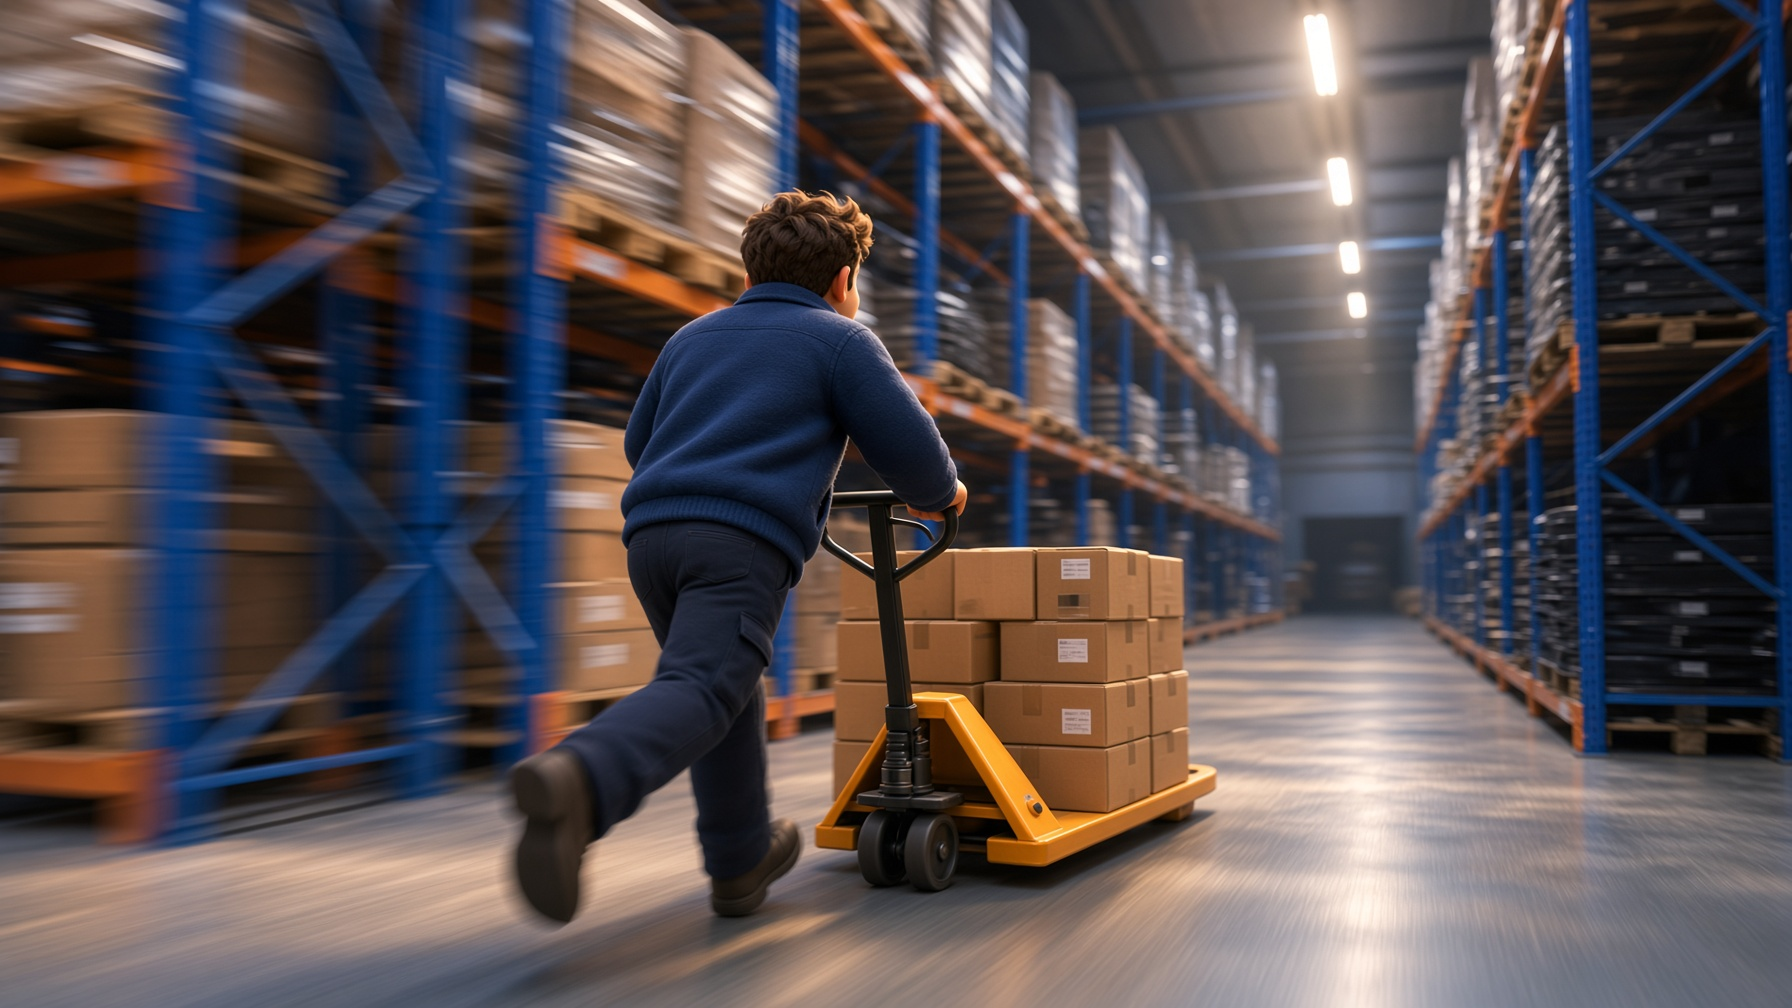
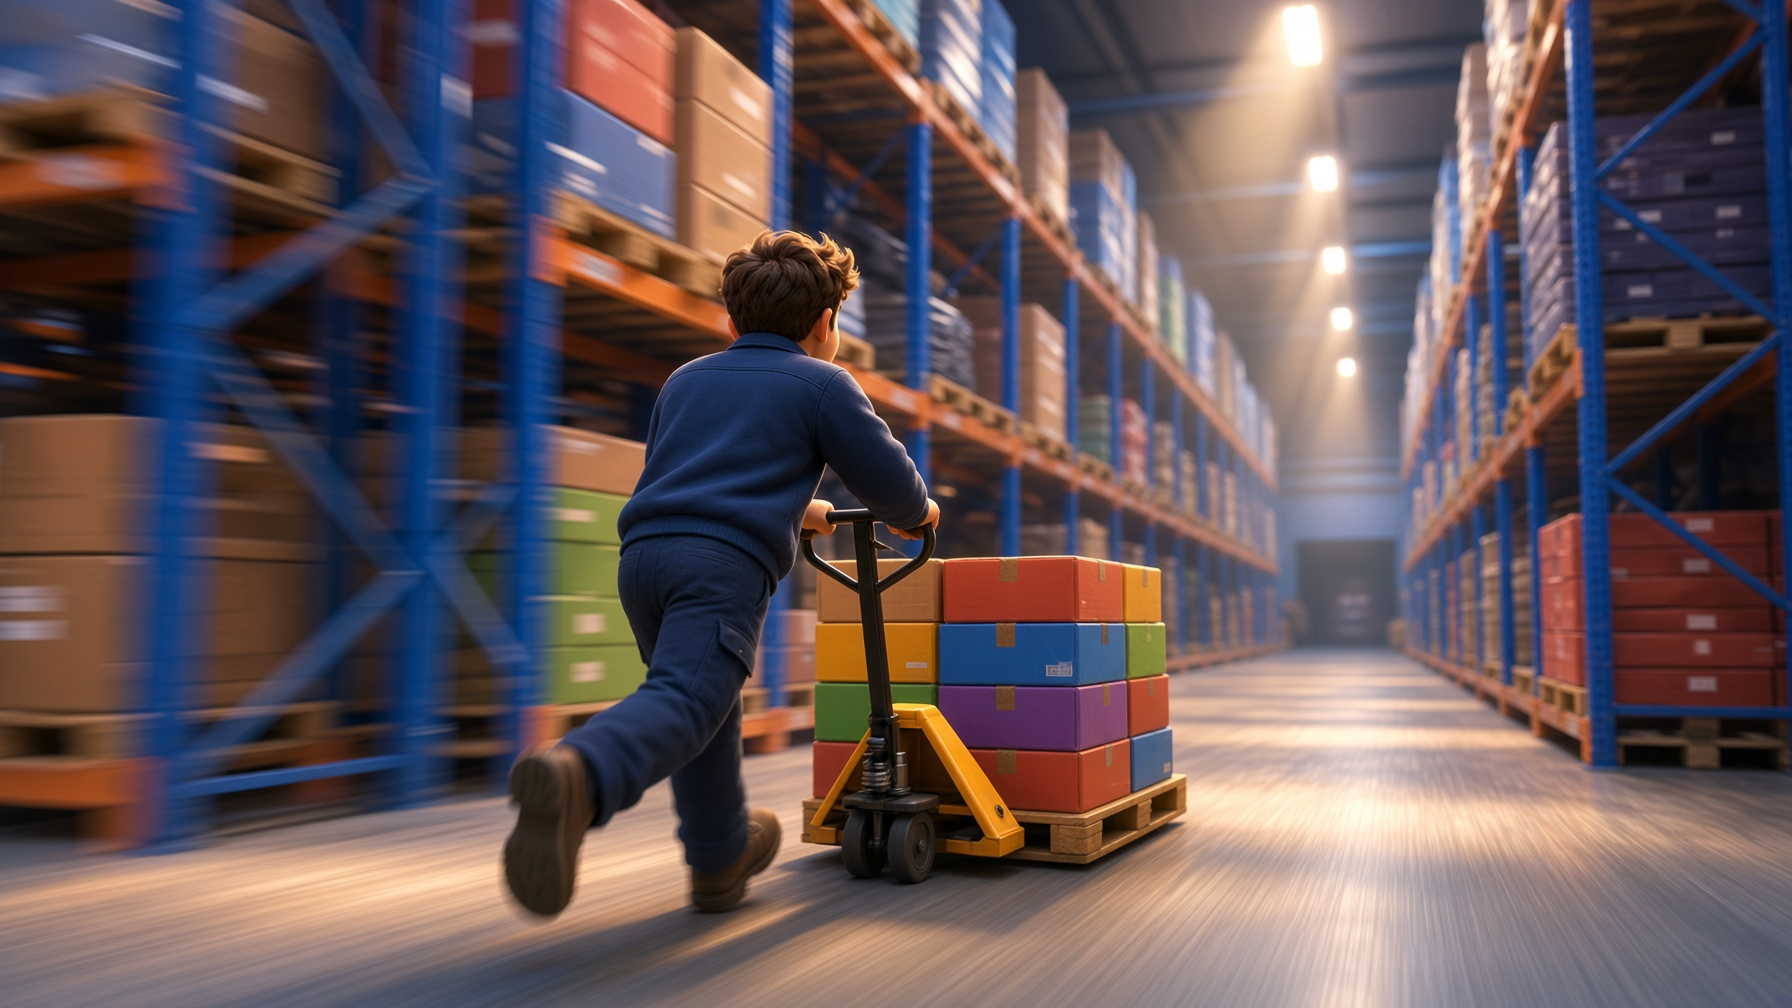
Push the Pixar look further on every photo
Redraw the site photos as clearer 3D animation frames and lighten
the homepage overlay so the truck reads through the navy wash.

diff --git a/src/lib/site.ts b/src/lib/site.ts
@@ -64,7 +64,7 @@ export const services: Service[] = [
     eyebrow: "Bestände steuern",
     teaser:
       "Fachboden, Palette, Blocklager – eingerichtet auf Ihre Artikelstruktur, nicht umgekehrt.",
-    image: "/images/warehouse-aisle.jpg",
+    image: "/images/warehouse-aisle.jpg?v=2",
     imageAlt: "Schmalganglager im ULD-Fulfillment-Lager im Hamburger Hafen",
     lead: "Ihre Ware liegt im Hamburger Hafen. Scanbasiert, zonenklar, jederzeit auskunftsfähig.",
     body: [
@@ -86,7 +86,7 @@ export const services: Service[] = [
     eyebrow: "Aufträge umsetzen",
     teaser:
       "Einzelstück, Karton oder Palette – kommissioniert, geprüft, versandfertig. Am selben Tag.",
-    image: "/images/pick-pack.jpg",
+    image: "/images/pick-pack.jpg?v=2",
     imageAlt:
       "Pick-and-Pack-Station: Kommissionierung und Versandfertigmachen bei ULD Hamburg",
     lead: "Jede Bestellung wird scanbasiert kommissioniert und nach Ihren Packregeln versandfertig gemacht.",
@@ -109,7 +109,7 @@ export const services: Service[] = [
     eyebrow: "Zustellung steuern",
     teaser:
       "Carrier nach Laufzeit und Kosten. Tracking zurück in Ihren Shop. Europaweit ab Hamburg.",
-    image: "/images/outbound.jpg",
+    image: "/images/outbound.jpg?v=2",
     imageAlt:
       "ULD-Fulfillment im Hamburger Hafen: Sattelzüge vor der Halle, Containerbrücken und Terminal im Hintergrund",
     lead: "Vom Packplatz an die Rampe, vom Hafen in die Fläche – mit festen Zeitfenstern und klarem Tracking.",
@@ -132,7 +132,7 @@ export const services: Service[] = [
     eyebrow: "Ware zurückführen",
     teaser:
       "Annahme, Prüfung, Wiedereinlagerung. Damit Retouren kein blinder Fleck in Ihrer Marge bleiben.",
-    image: "/images/returns.jpg",
+    image: "/images/returns.jpg?v=2",
     imageAlt: "Retourenbearbeitung bei ULD: Prüfung und Wiedereinlagerung im Hamburger Lager",
     lead: "Retouren nehmen wir strukturiert an, prüfen Zustand und Inhalt und führen einlagerungsfähige Ware kontrolliert zurück.",
     body: [
@@ -154,7 +154,7 @@ export const services: Service[] = [
     eyebrow: "Ware vorbereiten",
     teaser:
       "Umpacken, Etikettieren, Displays, Sets. Damit Kampagnen ohne Extra-Umlagerung starten.",
-    image: "/images/kitting.jpg",
+    image: "/images/kitting.jpg?v=2",
     imageAlt: "Kitting und Konfektionierung: Setbildung am Arbeitstisch im ULD-Lager Hamburg",
     lead: "Konfektionierung sitzt bei uns im Prozess – nicht in einem zweiten Lager am anderen Ende der Stadt.",
     body: [
@@ -176,7 +176,7 @@ export const services: Service[] = [
     eyebrow: "Ware hereinholen",
     teaser:
       "Container vom Terminal ins eigene Zolllager. Verzollen, wenn Sie wollen – nicht wenn der Hafen drängt.",
-    image: "/images/customs.jpg",
+    image: "/images/customs.jpg?v=2",
     imageAlt: "Containerterminal im Hamburger Hafen mit Anschluss an das ULD-Zolllager",
     lead: "Mit eigenem Zolllager im Hamburger Hafen senken Sie Terminalkosten und behalten den Takt.",
     body: [

diff --git a/src/routes/index.tsx b/src/routes/index.tsx
@@ -35,12 +35,12 @@ function Hero() {
   return (
     <section className="relative min-h-[100svh] overflow-hidden bg-navy-mid text-cream">
       <img
-        src="/images/hero-dock.jpg"
+        src="/images/hero-dock.jpg?v=2"
         alt={t.home.heroAlt}
         className="absolute inset-0 size-full object-cover object-[70%_center]"
       />
-      <div className="absolute inset-0 bg-gradient-to-r from-navy-mid/95 via-navy-mid/55 to-navy/15" />
-      <div className="absolute inset-0 bg-gradient-to-t from-navy-mid/85 via-transparent to-navy-mid/30" />
+      <div className="absolute inset-0 bg-gradient-to-r from-navy-mid/88 via-navy-mid/35 to-transparent" />
+      <div className="absolute inset-0 bg-gradient-to-t from-navy-mid/70 via-transparent to-navy-mid/15" />
       <span
         className="pointer-events-none absolute right-8 bottom-8 hidden size-28 border-[10px] border-crimson md:block"
         aria-hidden
@@ -152,7 +152,7 @@ function Split() {
     <section className="bg-navy text-cream">
       <div className="grid md:grid-cols-2">
         <div className="relative min-h-[320px] md:min-h-[560px]">
-          <AiImage fill src="/images/warehouse-aisle.jpg" alt={t.home.splitAlt} />
+          <AiImage fill src="/images/warehouse-aisle.jpg?v=2" alt={t.home.splitAlt} />
         </div>
         <div className="relative flex flex-col justify-center overflow-hidden px-5 py-16 md:px-16 md:py-24">
           <span

diff --git a/src/routes/standort.tsx b/src/routes/standort.tsx
@@ -29,7 +29,7 @@ function Standort() {
         eyebrow={p.eyebrow}
         title={p.title}
         lead={interpolate(p.lead, { address: company.address, zip: company.zip })}
-        image="/images/hamburg-port.jpg"
+        image="/images/hamburg-port.jpg?v=2"
         imageAlt={p.imageAlt}
         crumbs={[
           { label: t.nav.home, href: "/" },
@@ -40,7 +40,7 @@ function Standort() {
       <section className="bg-cream">
         <div className="grid md:grid-cols-2">
           <AiImage
-            src="/images/customs.jpg"
+            src="/images/customs.jpg?v=2"
             alt={p.customsAlt}
             wrapperClassName="h-72 w-full md:h-full"
             className="size-full object-cover"
@@ -67,7 +67,7 @@ function Standort() {
         <div className="mx-auto grid max-w-7xl gap-10 px-5 md:grid-cols-2 md:px-8">
           <BrandBox size="lg">
             <AiImage
-              src="/images/inbound.jpg"
+              src="/images/inbound.jpg?v=2"
               alt={p.inboundAlt}
               className="h-80 w-full object-cover"
             />

diff --git a/src/routes/ablauf.tsx b/src/routes/ablauf.tsx
@@ -28,7 +28,7 @@ function Ablauf() {
         eyebrow={p.eyebrow}
         title={p.title}
         lead={p.lead}
-        image="/images/warehouse-aisle.jpg"
+        image="/images/warehouse-aisle.jpg?v=2"
         imageAlt={p.imageAlt}
         crumbs={[
           { label: t.nav.home, href: "/" },
@@ -55,7 +55,7 @@ function Ablauf() {
           <div className="mt-16">
             <BrandBox size="lg">
               <AiImage
-                src="/images/ops-manager.jpg"
+                src="/images/ops-manager.jpg?v=2"
                 alt={p.teamAlt}
                 className="aspect-video w-full object-cover"
               />

diff --git a/src/routes/kontakt.tsx b/src/routes/kontakt.tsx
@@ -28,7 +28,7 @@ function Kontakt() {
         eyebrow={p.eyebrow}
         title={p.title}
         lead={p.lead}
-        image="/images/inbound.jpg"
+        image="/images/inbound.jpg?v=2"
         imageAlt={p.imageAlt}
         crumbs={[
           { label: t.nav.home, href: "/" },
@@ -76,7 +76,7 @@ function Kontakt() {
 
             <BrandBox>
               <AiImage
-                src="/images/wms.jpg"
+                src="/images/wms.jpg?v=2"
                 alt={p.officeAlt}
                 wrapperClassName="mt-10 hidden md:block"
                 className="h-56 w-full object-cover"

diff --git a/src/routes/ueber-uns.tsx b/src/routes/ueber-uns.tsx
@@ -28,7 +28,7 @@ function About() {
         eyebrow={p.eyebrow}
         title={p.title}
         lead={p.lead}
-        image="/images/ops-manager.jpg"
+        image="/images/ops-manager.jpg?v=2"
         imageAlt={p.imageAlt}
         crumbs={[
           { label: t.nav.home, href: "/" },
@@ -54,7 +54,7 @@ function About() {
           </div>
           <BrandBox size="lg">
             <AiImage
-              src="/images/wms.jpg"
+              src="/images/wms.jpg?v=2"
               alt={p.officeAlt}
               className="h-[28rem] w-full object-cover object-top"
             />

diff --git a/src/routes/andreas-heffter.tsx b/src/routes/andreas-heffter.tsx
@@ -37,7 +37,7 @@ function AndreasHeffter() {
     <main>
       <section className="relative overflow-hidden bg-navy-mid pt-[4.5rem] md:pt-[5.5rem]">
         <AiImage
-          src="/images/uld-dynamic.png"
+          src="/images/uld-dynamic.png?v=2"
           alt="ULD-Lager: Scanvorgang im Schmalgang – Andreas Heffter, Warehouse Manager"
           className="aspect-[16/9] w-full object-cover object-center md:aspect-[21/9] md:max-h-[70vh]"
         />

diff --git a/src/routes/yasam-seyhan.tsx b/src/routes/yasam-seyhan.tsx
@@ -33,7 +33,7 @@ function YasamSeyhan() {
     <main>
       <section className="relative overflow-hidden bg-navy-mid pt-[4.5rem] md:pt-[5.5rem]">
         <AiImage
-          src="/images/uld-dynamic.png"
+          src="/images/uld-dynamic.png?v=2"
           alt="ULD-Lager: Scanvorgang im Schmalgang – Yasam Seyhan, ULD Fulfillment"
           className="aspect-[16/9] w-full object-cover object-center md:aspect-[21/9] md:max-h-[70vh]"
         />

diff --git a/src/routes/leistungen/index.tsx b/src/routes/leistungen/index.tsx
@@ -27,7 +27,7 @@ function Leistungen() {
         eyebrow={p.eyebrow}
         title={p.title}
         lead={p.lead}
-        image="/images/pick-pack.jpg"
+        image="/images/pick-pack.jpg?v=2"
         imageAlt={p.imageAlt}
         crumbs={[
           { label: t.nav.home, href: "/" },
